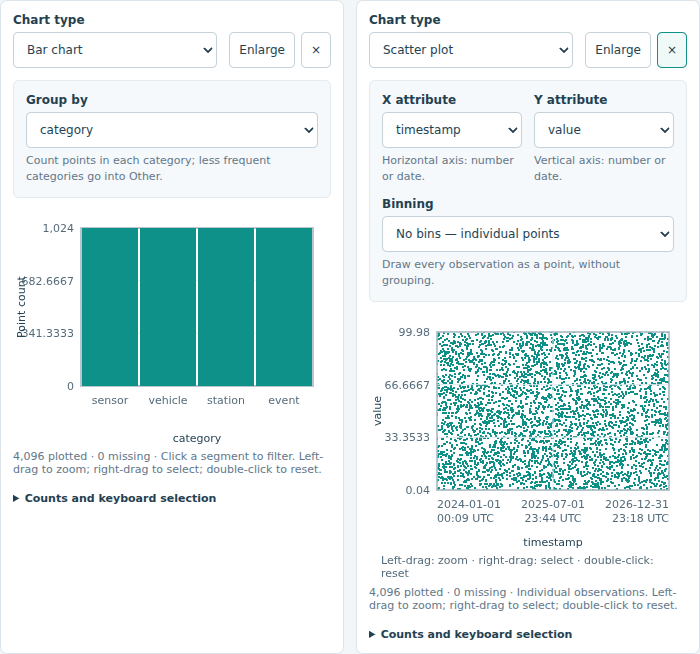
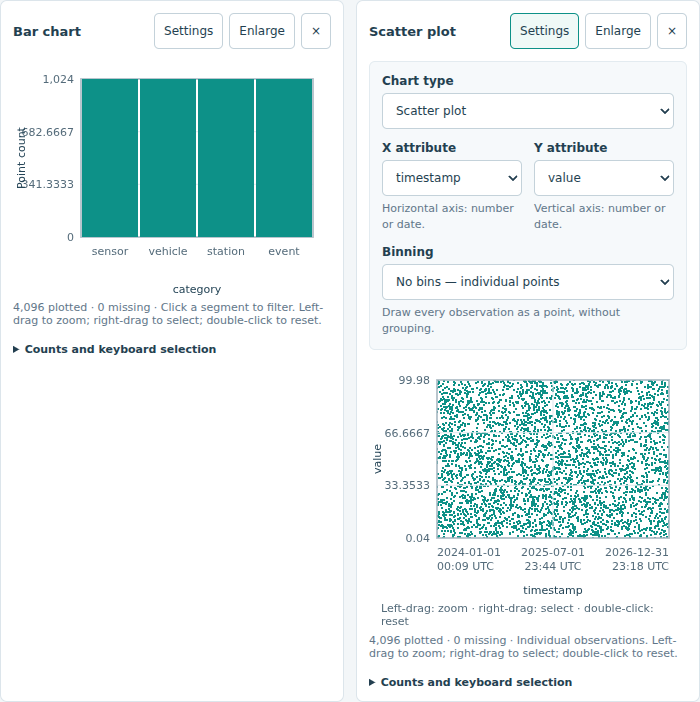
Make all chart settings collapsible while retaining header actions

diff --git a/tests/browser/controls.spec.ts b/tests/browser/controls.spec.ts
@@ -1,6 +1,40 @@
 import { test, expect } from '@playwright/test';
 import { feature } from '../../server/demo.ts';
-const ready = async (page: any) => { await page.goto('/?points=4096&autoload=1'); await page.waitForFunction(() => (window as any).__WFS_MAP__?.workspace.results.length === 3); };
+const ready = async (page: any) => { await page.goto('/?points=4096&autoload=1'); await page.waitForFunction(() => (window as any).__WFS_MAP__?.workspace.results.length === 3); for (const toggle of await page.getByRole('button', { name: 'Settings', exact: true }).all()) await toggle.click(); };
+test('every chart collapses all settings while keeping enlargement and removal available', async ({ page }) => {
+    await page.goto('/?points=4096&autoload=1');
+    await page.waitForFunction(() => (window as any).__WFS_MAP__?.workspace.results.length === 3);
+    const cards = page.locator('.chart-card');
+    for (const card of await cards.all()) {
+        await expect(card.getByRole('button', { name: 'Settings', exact: true })).toHaveAttribute('aria-expanded', 'false');
+        await expect(card.getByLabel('Chart type')).toBeHidden();
+        await expect(card.getByRole('button', { name: 'Enlarge', exact: true })).toBeVisible();
+        await expect(card.getByRole('button', { name: 'Remove chart' })).toBeVisible();
+    }
+    const card = cards.first(), toggle = card.getByRole('button', { name: 'Settings', exact: true });
+    for (const type of ['bar', 'pie', 'time', 'scatter']) {
+        await toggle.focus();
+        await page.keyboard.press('Enter');
+        await expect(toggle).toHaveAttribute('aria-expanded', 'true');
+        await card.getByLabel('Chart type').selectOption(type);
+        await page.waitForFunction(t => (window as any).__WFS_MAP__.workspace.results[0].type === t, type);
+        const before = await page.evaluate(() => ({ specs: (window as any).__WFS_MAP__.workspace.specs, filters: (window as any).__WFS_MAP__.sources[0].filterRequest }));
+        await toggle.click();
+        await expect(card.locator('.chart-controls')).toBeHidden();
+        await expect(card.getByRole('heading')).toHaveText({ bar: 'Bar chart', pie: 'Pie chart', time: 'Time series', scatter: 'Scatter plot' }[type]!);
+        await card.getByRole('button', { name: 'Enlarge', exact: true }).click();
+        await expect(page.getByRole('dialog').locator('.chart-controls')).toBeHidden();
+        await page.getByRole('dialog').getByRole('button', { name: 'Settings', exact: true }).click();
+        await expect(page.getByRole('dialog').getByLabel('Chart type')).toHaveValue(type);
+        await page.keyboard.press('Escape');
+        await expect(card.getByLabel('Chart type')).toBeVisible();
+        await toggle.click();
+        const after = await page.evaluate(() => ({ specs: (window as any).__WFS_MAP__.workspace.specs, filters: (window as any).__WFS_MAP__.sources[0].filterRequest }));
+        expect(after).toEqual(before);
+    }
+    await card.getByRole('button', { name: 'Remove chart' }).click();
+    await expect(cards).toHaveCount(2);
+});
 test('labeled chart settings expose only relevant controls and use one scatter binning dropdown', async ({ page }) => {
     await ready(page);
     const bar = page.locator('.chart-card').first(), time = page.locator('.chart-card').nth(1), scatter = page.locator('.chart-card').nth(2);
@@ -18,7 +52,7 @@ test('labeled chart settings expose only relevant controls and use one scatter b
     await time.getByLabel('Y aggregation').selectOption('count');
     await expect(time.getByLabel('Y attribute', { exact: true })).toBeHidden();
     await expect(time.locator('.chart-field').filter({ hasText: 'Y attribute' })).toBeHidden();
-    await expect(scatter.locator('.chart-controls select:visible')).toHaveCount(3);
+    await expect(scatter.locator('.chart-controls select:visible')).toHaveCount(4);
     const binning = scatter.getByLabel('Binning', { exact: true });
     await expect(binning.locator('option[value=exact]')).toHaveText('No bins — individual points');
     await binning.selectOption('exact');

diff --git a/tests/browser/chart-navigation.spec.ts b/tests/browser/chart-navigation.spec.ts
@@ -1,5 +1,5 @@
 import { test, expect } from '@playwright/test';
-const ready = async (page: any) => { await page.goto('/?points=4096&autoload=1'); await page.waitForFunction(() => (window as any).__WFS_MAP__?.workspace.results.length === 3); };
+const ready = async (page: any) => { await page.goto('/?points=4096&autoload=1'); await page.waitForFunction(() => (window as any).__WFS_MAP__?.workspace.results.length === 3); for (const toggle of await page.getByRole('button', { name: 'Settings', exact: true }).all()) await toggle.click(); };
 const drag = async (page: any, canvas: any, button: 'left' | 'right', lo = [.2, .25], hi = [.8, .8]) => { await canvas.scrollIntoViewIfNeeded(); const b = (await canvas.boundingBox())!; await page.mouse.move(b.x + 68 + (b.width - 86) * lo[0], b.y + 18 + (b.height - 82) * lo[1]); await page.mouse.down({ button }); await page.mouse.move(b.x + 68 + (b.width - 86) * hi[0], b.y + 18 + (b.height - 82) * hi[1], { steps: 5 }); await page.mouse.up({ button }); };
 test('only scatter offers unbinned mode, and changing type resets it', async ({ page }) => {
     await ready(page);
@@ -132,6 +132,6 @@ test('pie and time charts share zoom/select gestures; removing an enlarged chart
 test('GPU date zoom keeps observations one millisecond apart distinct across a multi-year dataset',async({page})=>{
  const times=[Date.UTC(2024,0,1),Date.UTC(2025,0,1),Date.UTC(2025,0,1)+1,Date.UTC(2026,0,1)],values=[0,25,75,100];
  await page.route('**/wfs?*',async route=>{const url=new URL(route.request().url());if(url.searchParams.get('request')==='DescribeFeatureType'){await route.fulfill({status:404,body:'No schema'});return;}if(url.searchParams.get('resultType')==='hits'){await route.fulfill({contentType:'application/xml',body:'<FeatureCollection numberMatched="4"/>'});return;}await route.fulfill({contentType:'application/json',body:JSON.stringify({type:'FeatureCollection',numberMatched:4,features:times.map((t,i)=>({type:'Feature',id:`f${i}`,geometry:{type:'Point',coordinates:[-1+i*.1,54]},properties:{category:'a',timestamp:new Date(t).toISOString(),value:values[i]}}))})});});
- await page.goto('/?points=4&autoload=1');await page.waitForFunction(()=>(window as any).__WFS_MAP__?.workspace.results.length===3);const s=page.locator('.chart-card').nth(2);await s.getByLabel('X attribute').selectOption('timestamp');await s.getByLabel('Y attribute').selectOption('value');await s.getByLabel('Binning',{exact:true}).selectOption('exact');await page.waitForFunction(()=>(window as any).__WFS_MAP__.workspace.results[2].raw?.precise);
+ await page.goto('/?points=4&autoload=1');await page.waitForFunction(()=>(window as any).__WFS_MAP__?.workspace.results.length===3);const s=page.locator('.chart-card').nth(2);await s.getByRole('button',{name:'Settings',exact:true}).click();await s.getByLabel('X attribute').selectOption('timestamp');await s.getByLabel('Y attribute').selectOption('value');await s.getByLabel('Binning',{exact:true}).selectOption('exact');await page.waitForFunction(()=>(window as any).__WFS_MAP__.workspace.results[2].raw?.precise);
  const hits=await page.evaluate(times=>{const h=(window as any).__WFS_MAP__,raw=h.workspace.views.get('chart-3').raw,b=h.workspace.results[2].raw.bounds,t1=(times[1]-b[0])/(b[2]-b[0]),t2=(times[2]-b[0])/(b[2]-b[0]),span=t2-t1;raw.interaction.view=[t1-span*.5,0,t2+span*.5,1];raw.draw(true);const canvas=raw.canvas,d=canvas.width/canvas.clientWidth,w=canvas.clientWidth,height=canvas.clientHeight,hits=[];for(const [x,y] of [[.25,.25],[.75,.75]]){const pixels=new Uint8Array(4);raw.gl.readPixels(Math.round((68+(w-86)*x)*d),Math.round((64+(height-82)*y)*d),1,1,raw.gl.RGBA,raw.gl.UNSIGNED_BYTE,pixels);hits.push((pixels[0]+pixels[1]*256+pixels[2]*65536+pixels[3]*16777216)-1);}raw.draw();return hits;},times);expect(hits).toEqual([1,2]);
 });

diff --git a/src/workspace.ts b/src/workspace.ts
@@ -177,6 +177,7 @@ class ChartView {
     private yField = chartField(this.y, 'Y attribute', '');
     private binsField = chartField(this.bins, 'Binning', '');
     private aggregateField = chartField(this.aggregate, 'Y aggregation', '');
+    private title = element('h3');
     private raw?: RawScatter;
     private plot = element('div');
     private interaction: ChartInteraction;
@@ -191,6 +192,10 @@ class ChartView {
         const header = element('div'), head = element('div');
         header.className = 'chart-header';
         head.className = 'chart-controls';
+        head.id = `chart-settings-${++nextChartControl}`;
+        head.hidden = true;
+        head.setAttribute('role', 'group');
+        head.setAttribute('aria-label', 'Chart settings');
         this.type.setAttribute('aria-label', 'Chart type');
         this.type.append(option('bar', 'Bar chart'), option('scatter', 'Scatter plot'), option('time', 'Time series'), option('pie', 'Pie chart'));
         this.type.value = spec.type;
@@ -198,16 +203,23 @@ class ChartView {
         this.aggregate.value = spec.aggregate ?? 'count';
         const actions = element('div');
         actions.className = 'chart-actions';
+        const settings = button('Settings', () => {
+            head.hidden = !head.hidden;
+            settings.setAttribute('aria-expanded', String(!head.hidden));
+        });
+        settings.setAttribute('aria-controls', head.id);
+        settings.setAttribute('aria-expanded', 'false');
         const removeButton = button('×', remove);
         removeButton.setAttribute('aria-label', 'Remove chart');
         this.expand.setAttribute('aria-haspopup', 'dialog');
         this.expand.setAttribute('aria-expanded', 'false');
         this.expand.onclick = () => this.enlarge();
-        actions.append(this.expand, removeButton);
+        actions.append(settings, this.expand, removeButton);
         const typeField = chartField(this.type, 'Chart type', '');
         typeField.hint.hidden = true;
-        header.append(typeField.root, actions);
-        head.append(this.xField.root, this.aggregateField.root, this.yField.root, this.binsField.root);
+        typeField.root.classList.add('chart-field-wide');
+        header.append(this.title, actions);
+        head.append(typeField.root, this.xField.root, this.aggregateField.root, this.yField.root, this.binsField.root);
         this.canvas.tabIndex = 0;
         this.canvas.setAttribute('role', 'img');
         this.note.className = 'hint';
@@ -303,6 +315,7 @@ class ChartView {
         this.note.textContent = allowed.length ? '' : 'No compatible attributes in this dataset. Choose another chart type.';
     }
     private refreshSettings() {
+        this.title.textContent = this.type.selectedOptions[0].textContent;
         const scatter = this.spec.type === 'scatter', time = this.spec.type === 'time';
         const kind = this.fields.find(f => f.name === this.spec.x)?.kind;
         const categorical = kind === 'string' || kind === 'boolean';

diff --git a/tests/browser/analysis.spec.ts b/tests/browser/analysis.spec.ts
@@ -1,6 +1,6 @@
 import { test, expect } from '@playwright/test';
 import { feature } from '../../server/demo.ts';
-const ready = async (page: any) => { await page.goto('/?points=4096&autoload=1'); await page.waitForFunction(() => (window as any).__WFS_MAP__?.metrics.analysisCharts?.length === 3); };
+const ready = async (page: any) => { await page.goto('/?points=4096&autoload=1'); await page.waitForFunction(() => (window as any).__WFS_MAP__?.metrics.analysisCharts?.length === 3); for (const toggle of await page.getByRole('button', { name: 'Settings', exact: true }).all()) await toggle.click(); };
 test('configuration is a subpage and navigation retains selection and chart state', async ({ page }) => {
     await ready(page);
     await expect(page.locator('#url')).toBeHidden();

diff --git a/tests/browser/sources.spec.ts b/tests/browser/sources.spec.ts
@@ -18,6 +18,7 @@ test('two sources draw simultaneously, retain separate filters and chart setting
     await page.waitForFunction(() => (window as any).__WFS_MAP__?.metrics.analysisCharts);
     await second(page);
     await expect(page.locator('#hud')).toContainText('Loaded 3,072');
+    await page.locator('.chart-card').first().getByRole('button', { name: 'Settings', exact: true }).click();
     await page.locator('.chart-card').first().getByLabel('Chart type').selectOption('pie');
     await page.evaluate(() => { const h = (window as any).__WFS_MAP__; h.filter([{ field: 'category', op: 'eq', value: 'sensor' }]); });
     await expect(page.locator('#filterStatus')).toContainText('256 matches');

diff --git a/src/style.css b/src/style.css
@@ -272,13 +272,15 @@ button:focus-visible,input:focus-visible,select:focus-visible,a:focus-visible,ca
 }
 .chart-header {
   display: flex;
-  align-items: flex-end;
+  align-items: center;
   flex-wrap: wrap;
   gap: 12px;
   padding-bottom: 12px;
 }
-.chart-header .chart-field {
-  flex: 1 1 150px;
+.chart-header h3 {
+  flex: 1 1 85px;
+  margin: 0;
+  font-size: 13px;
 }
 .chart-controls {
   display: grid;

diff --git a/README.md b/README.md
@@ -46,7 +46,7 @@ Charts are populated from DescribeFeatureType or the adapter's inferred schema. 
 | Time series | Date X; optional numeric Y | Count, sum, mean, minimum or maximum by time interval; click a segment |
 | Scatter | Two number/date attributes | Counted 2D bins, or every individual observation with binning off; click or right-drag a rectangle |
 
-Bar, pie and time-series charts always aggregate the full selection into bounded categories or bins. Only scatter plots have a **No bins — individual points** option in the **Binning** dropdown, which draws **every non-null observation** with WebGL. There is no sampling or distinct-value cap for raw scatter; it retains original row IDs for point clicks, and overlapping dots return one observation. Each chart has visible labels and inline help for its settings. **Group by** selects the attribute counted by bar and pie charts; category and boolean attributes hide binning because they use fixed groups. **Time attribute** selects the date axis for time series. Scatter plots label the **X attribute** and **Y attribute** explicitly. **Binning** chooses 8–64 value ranges, time intervals, or bins per scatter axis; scatter also offers **No bins — individual points** in this same dropdown. Time-series **Y aggregation** selects count, sum, mean, min or max; the latter four enable a numeric **Y attribute** selector. Null Y values are excluded and counted as missing. Full-data domains and bin boundaries remain stable through filtering. Numeric ranges include the lower bound, exclude the upper bound, and include the maximum in the last bin. Millisecond time boundaries use exact integer edges.
+Bar, pie and time-series charts always aggregate the full selection into bounded categories or bins. Only scatter plots have a **No bins — individual points** option in the **Binning** dropdown, which draws **every non-null observation** with WebGL. There is no sampling or distinct-value cap for raw scatter; it retains original row IDs for point clicks, and overlapping dots return one observation. Each chart has a **Settings** toggle, collapsed by default, containing its chart type, attributes, binning and aggregation controls with visible labels and inline help. **Enlarge** and **Remove chart** stay visible in the header. Collapsing settings preserves the chart configuration, zoom and filters, including when enlarging and restoring. **Group by** selects the attribute counted by bar and pie charts; category and boolean attributes hide binning because they use fixed groups. **Time attribute** selects the date axis for time series. Scatter plots label the **X attribute** and **Y attribute** explicitly. **Binning** chooses 8–64 value ranges, time intervals, or bins per scatter axis; scatter also offers **No bins — individual points** in this same dropdown. Time-series **Y aggregation** selects count, sum, mean, min or max; the latter four enable a numeric **Y attribute** selector. Null Y values are excluded and counted as missing. Full-data domains and bin boundaries remain stable through filtering. Numeric ranges include the lower bound, exclude the upper bound, and include the maximum in the last bin. Millisecond time boundaries use exact integer edges.
 
 Every chart uses the same mouse gestures: **left-drag a rectangle to zoom**, **right-drag to select**, and **double left-click to reset zoom**. Zoom only changes the local viewport; it does not filter the dataset, issue WFS requests or upload point data again. Single segment/point clicks and keyboard selection still filter. Scatter axes have numeric/date value ticks, axis titles, gridlines and readable UTC dates/times that adapt to the zoom level. Canvas and WebGL geometry use the same actual plot dimensions, including enlargement. Binned scatter selection chooses cells intersected by the range; raw scatter selection uses exact numeric/date bounds. Pie rectangle selection intersects its sectors.
 
@@ -139,7 +139,7 @@ node scripts/preview-charts.mjs
 node scripts/benchmark.mjs 3000000
 ```
 
-Current validation: **18 unit/API tests and 23 browser tests pass**, along with a fresh offline vendored install/build/test in an independent directory. Tests cover custom local basemap templates and persistence, time Y aggregation, scatter-only unbinned mode, exact-point picking and rectangle selection, geographic edge/antimeridian predicates, source-specific colour/box state, colour code memory and stable bins, and bounded non-scatter aggregation. Chart navigation tests cover canvas/WebGL zoom and reset without dataset changes, right-drag selection (including pie/time), date axes and millisecond precision across multi-year domains, modal enlargement/restoration, Escape, type switching, and removing an enlarged chart. Chart settings checks cover visible accessible labels, responsive control widths, category-specific controls, time Y visibility, and switching between raw scatter and bin counts in one dropdown.
+Current validation: **18 unit/API tests and 24 browser tests pass**, along with a fresh offline vendored install/build/test in an independent directory. Tests cover custom local basemap templates and persistence, time Y aggregation, scatter-only unbinned mode, exact-point picking and rectangle selection, geographic edge/antimeridian predicates, source-specific colour/box state, colour code memory and stable bins, and bounded non-scatter aggregation. Chart navigation tests cover canvas/WebGL zoom and reset without dataset changes, right-drag selection (including pie/time), date axes and millisecond precision across multi-year domains, modal enlargement/restoration, Escape, type switching, and removing an enlarged chart. Chart settings checks cover visible accessible labels, responsive control widths, category-specific controls, time Y visibility, and switching between raw scatter and bin counts in one dropdown.
 
 Analysis tests independently check nested expression semantics, missing values, constants, Other categories, chart totals, exact clicked bin membership, fractional time boundaries, cancellation and invalid schemas. Browser tests exercise schema-driven chart types, pie clicks, scatter dragging, OR chart selections, nested manual rules, keyboard selection, latest-request wins, multi-source isolation, distinct schemas, persistence, disable/re-enable, source-aware picking, partial failure, subpage navigation, GML, high-zoom picking and truncation. CI installs npm dependencies from the committed offline bundle; browser binaries are fetched separately for tests.
 
